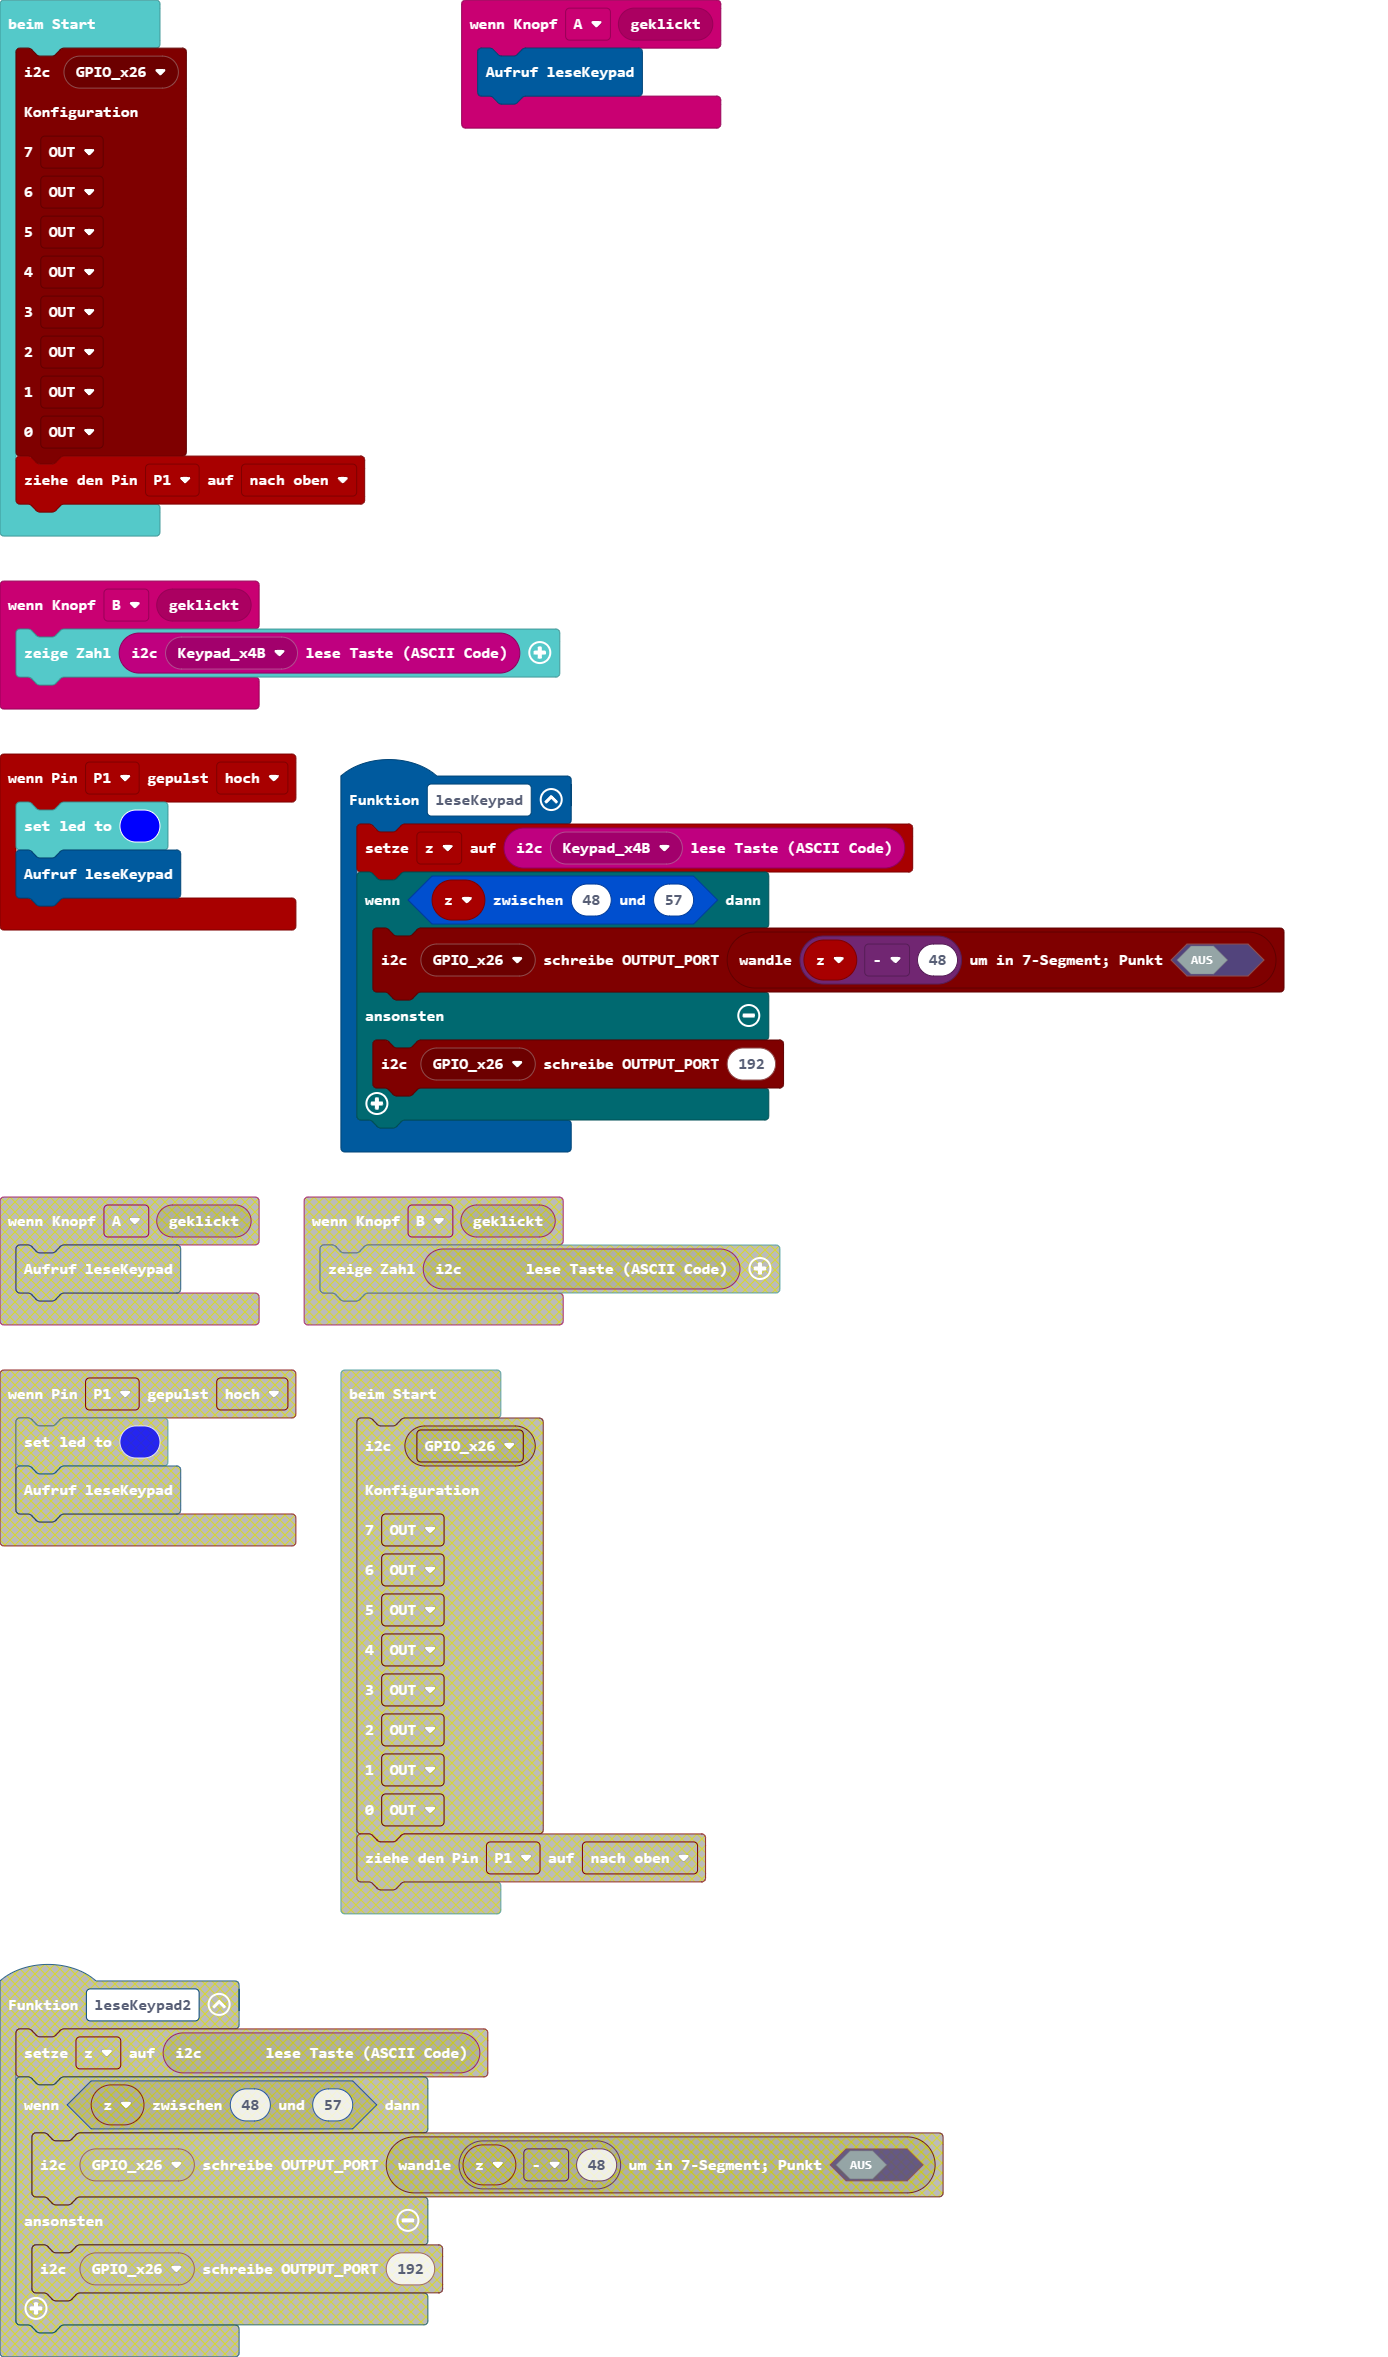
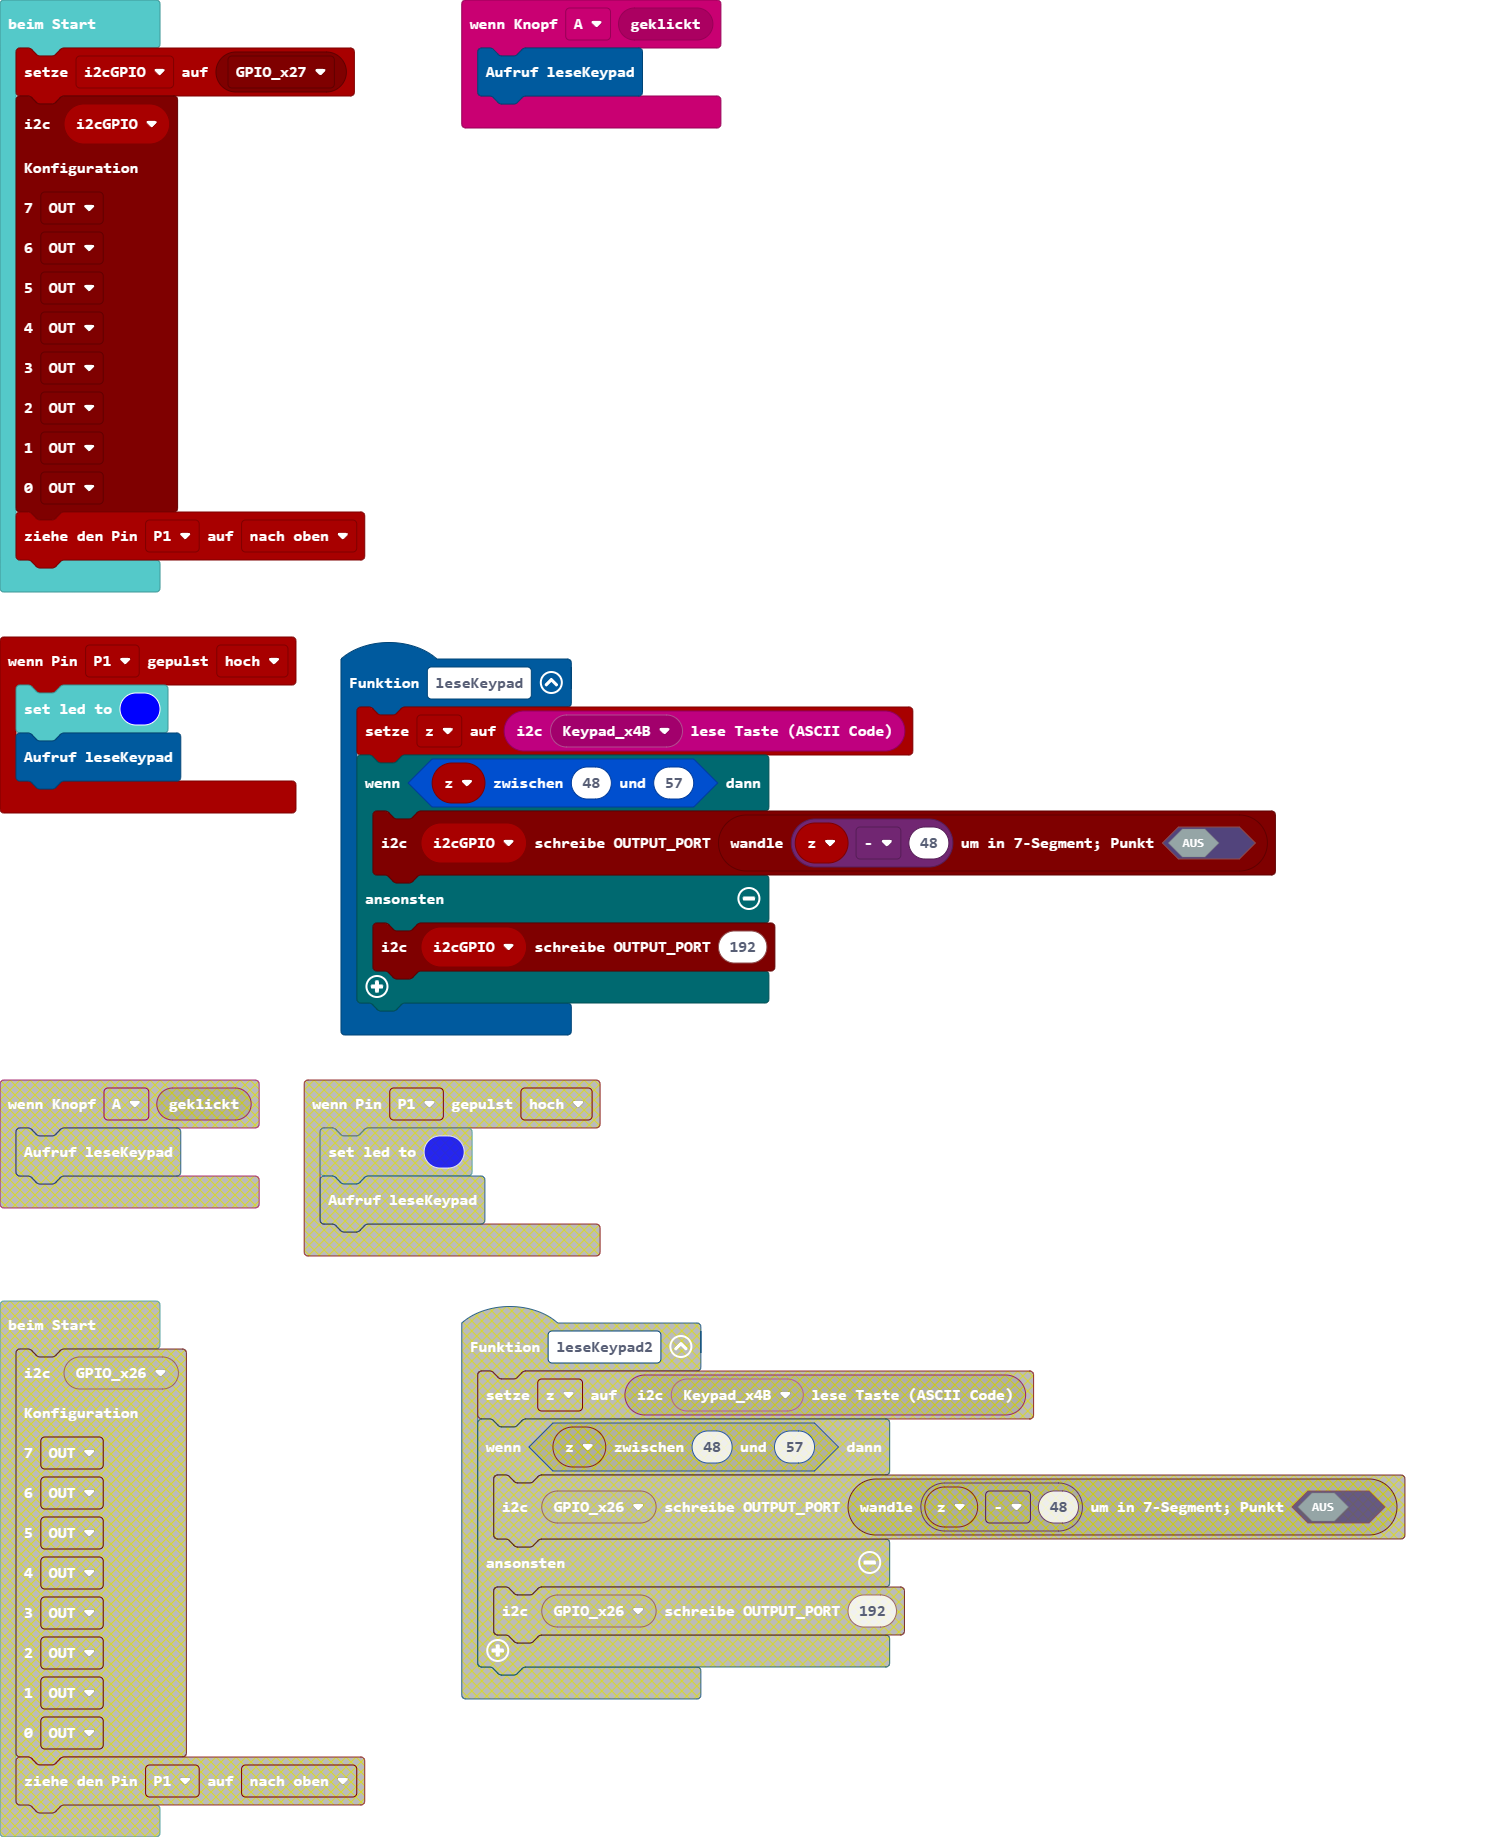
Aktualisiere pxt.json, main.blocks, main.ts

diff --git a/main.ts b/main.ts
@@ -4,9 +4,9 @@ input.onButtonEvent(Button.A, input.buttonEventClick(), function () {
 function leseKeypad () {
     z = qwiickeypad.getButton(qwiickeypad.qwiickeypad_eADDR(qwiickeypad.eADDR.Keypad_x4B))
     if (bit.between(z, 48, 57)) {
-        qwiicgpio.writeOUTPUT_PORT(qwiicgpio.qwiicgpio_eADDR(qwiicgpio.eADDR.GPIO_x26), qwiicgpio.siebenSegment(z - 48, false))
+        qwiicgpio.writeOUTPUT_PORT(i2cGPIO, qwiicgpio.siebenSegment(z - 48, false))
     } else {
-        qwiicgpio.writeOUTPUT_PORT(qwiicgpio.qwiicgpio_eADDR(qwiicgpio.eADDR.GPIO_x26), 192)
+        qwiicgpio.writeOUTPUT_PORT(i2cGPIO, 192)
     }
 }
 pins.onPulsed(DigitalPin.P1, PulseValue.Low, function () {
@@ -20,8 +20,10 @@ input.onButtonEvent(Button.B, input.buttonEventClick(), function () {
     basic.showNumber(qwiickeypad.getButton(qwiickeypad.qwiickeypad_eADDR(qwiickeypad.eADDR.Keypad_x4B)))
 })
 let z = 0
+let i2cGPIO = 0
+i2cGPIO = qwiicgpio.qwiicgpio_eADDR(qwiicgpio.eADDR.GPIO_x27)
 qwiicgpio.setMode(
-qwiicgpio.qwiicgpio_eADDR(qwiicgpio.eADDR.GPIO_x26),
+i2cGPIO,
 qwiicgpio.eIO.OUT,
 qwiicgpio.eIO.OUT,
 qwiicgpio.eIO.OUT,
